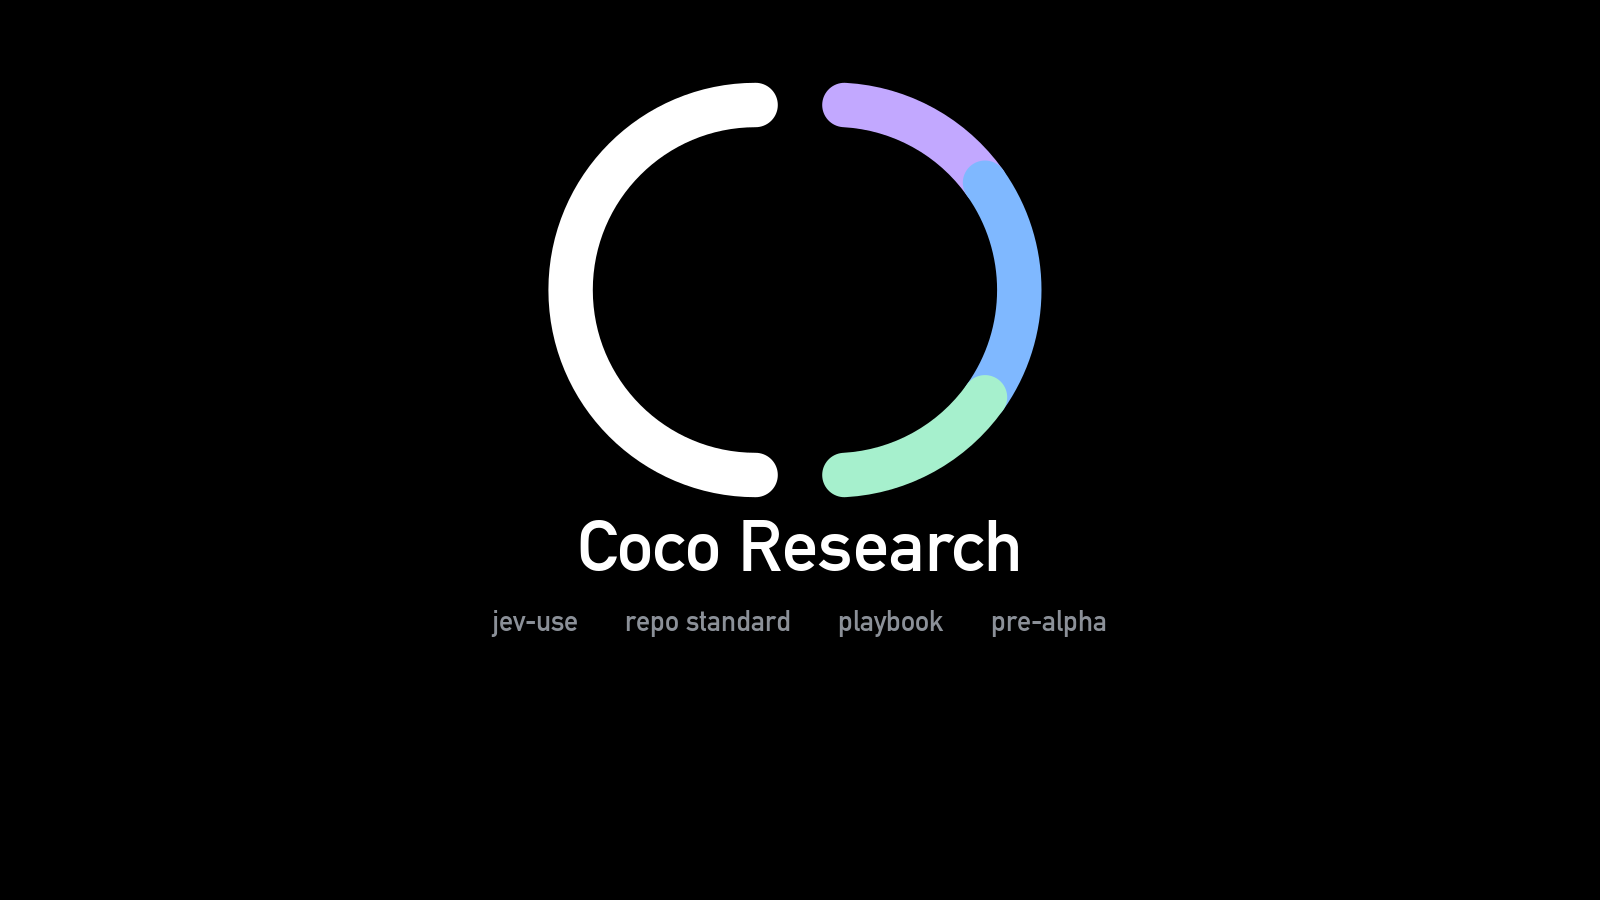
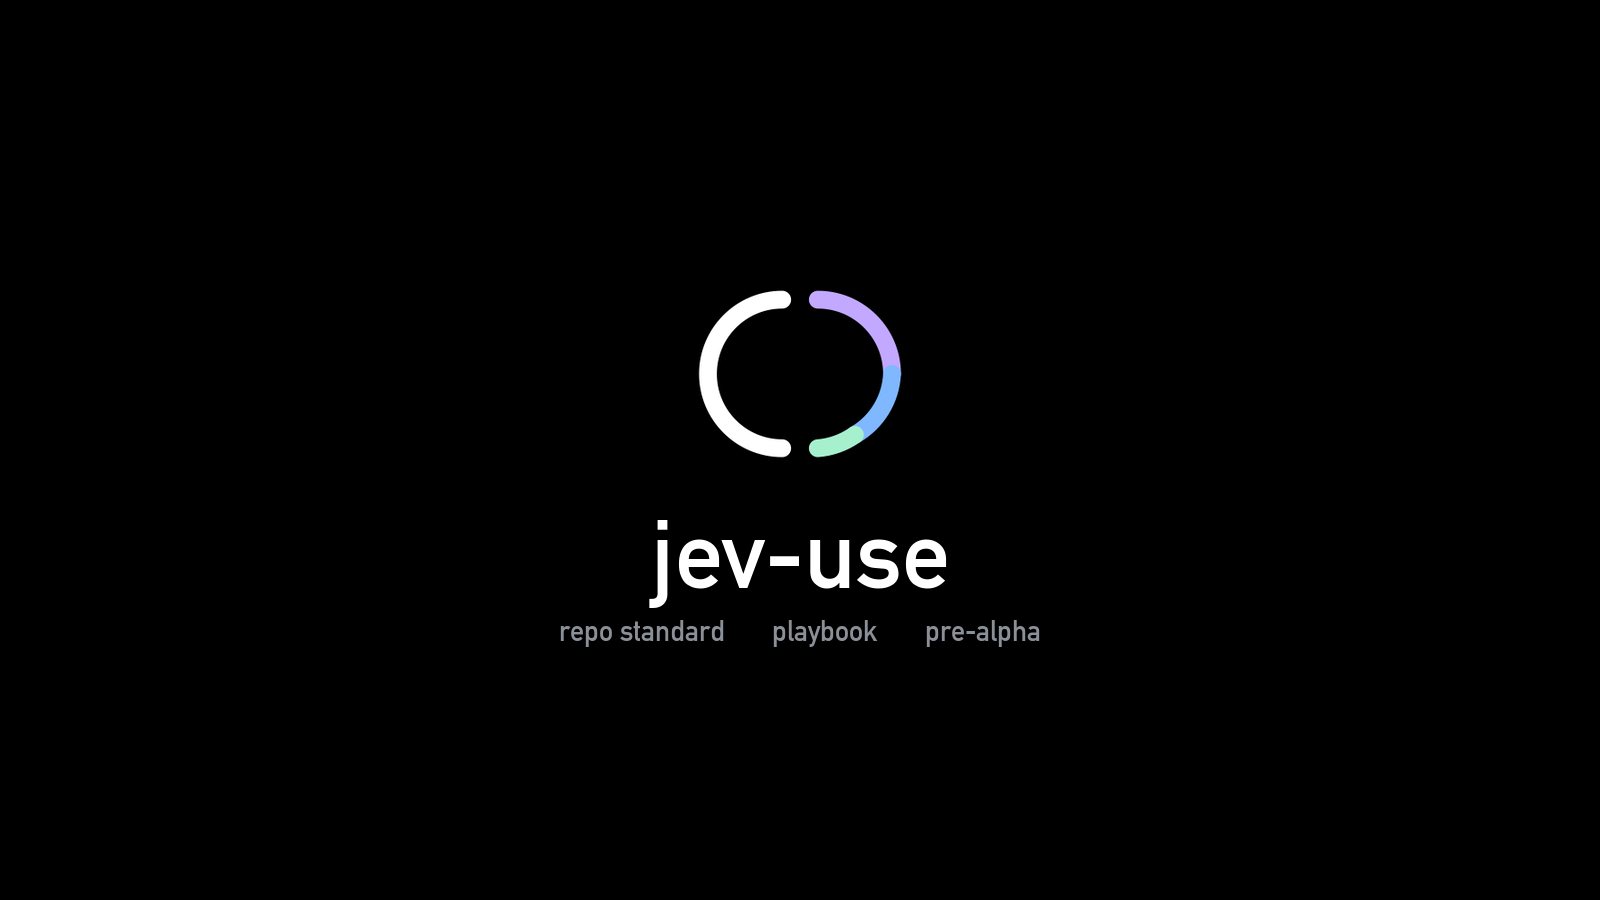
docs(readme): company mark SoT + D-DIN jev-use title
Rose HARD: logo.svg interlocked C-arcs (SI #197 family);
D-DIN jev-use title; playbook sub. Prior Jev U-arcs gone.
PNG24 + exact Direction B stops. Merge HOLD.

Changed region(s): [[0.3125, 0.0933, 0.6875, 0.7156], [0.4688, 0.3111, 0.5312, 0.3422]]

diff --git a/README.md b/README.md
@@ -1,6 +1,6 @@
 <div align="center">
 
-<img src="docs/readme/hero-dark.png" alt="Coco Research — jev-use repo standard" width="840"/>
+<img src="docs/readme/hero-dark.png" alt="jev-use — Coco Research company mark, repo standard" width="840"/>
 
 # jev-use
 
@@ -14,8 +14,8 @@
 
 </div>
 
-> **Coco Research company home for the Repo Standard and agent playbook.**
-> This is **not** a shipped Mac product. Pre-alpha. The hero uses the Coco Research company mark only.
+> **Repo Standard / playbook home for Coco Research agents and humans.**
+> Hero mark = Coco Research company mark (`assets/logo.svg` interlocked C-arcs). **Not** a shipped Mac product. Pre-alpha.
 
 <img src="docs/readme/local-first.png" alt="Repo Standard → Playbook → macOS tools" width="100%"/>
 
